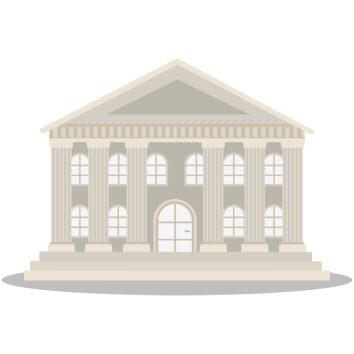
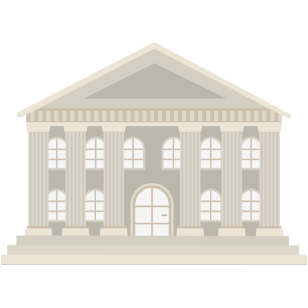
Reposition unviersity fort

Changed region(s): [[0.0, 0.1169, 1.0, 0.8766]]

diff --git a/core/src/io/github/jordan00789/sepr/MainGame.java b/core/src/io/github/jordan00789/sepr/MainGame.java
@@ -79,7 +79,7 @@ public class MainGame implements Screen {
 		initEntity(fortress3, (0.47f * width), (0.82f * height));
 
 		fortress4 = new Fortress(200, new Texture("university.png"), 4);
-		initEntity(fortress4, (0.7f * width), (0.2f * height));
+		initEntity(fortress4, (.97f * width), (.65f * height));
 
 		// This entity is used to fill the end of the entity array.
 		// The last entity in entities is not rendered due to a UI bug.
@@ -115,7 +115,8 @@ public class MainGame implements Screen {
 	 * @param y The y-coordinate of the entity
 	 */
 	private void initEntity(Entity e, float x, float y) {
-		e.setScale(entityScale);
+		//e.setScale(entityScale);
+		e.setScale(e.equals(fortress4) ? 0.17f : entityScale);
 		e.setOriginCenter();
 		e.setPosition(x - e.getOriginX(), y - e.getOriginY());
 		entities.add(e);
@@ -252,7 +253,7 @@ public class MainGame implements Screen {
 		fortress1.setPosition((0.53f * width) - 512, (0.26f * height) - 512);
 		fortress2.setPosition((0.29f * width) - 512, (0.66f * height) - 512);
 		fortress3.setPosition((0.47f * width) - 512, (0.82f * height) - 512);
-		fortress4.setPosition((0.55f * width) - 512, (0.55f * height) - 512);
+		fortress4.setPosition((.97f * width) - 512, (.65f * height) - 512);
 		//fortress5.setPosition((0.47f * width) - 512, (0.82f * height) - 512);
 		//fortress6.setPosition((0.47f * width) - 512, (0.82f * height) - 512);
 	}

diff --git a/core/src/io/github/jordan00789/sepr/Fortress.java b/core/src/io/github/jordan00789/sepr/Fortress.java
@@ -76,9 +76,10 @@ public class Fortress extends Entity implements Attack {
                     }
                     break;
                 case 4:
-                    for (int i = 0; i <= 359; i += 45) {
-                        attack(MainGame.currentTruck, i);
-                    }
+                    attack(MainGame.currentTruck, 0);
+                    attack(MainGame.currentTruck, -30);
+                    attack(MainGame.currentTruck, 30);
+                    break;
             }
             ableToAttack = false;
         }
